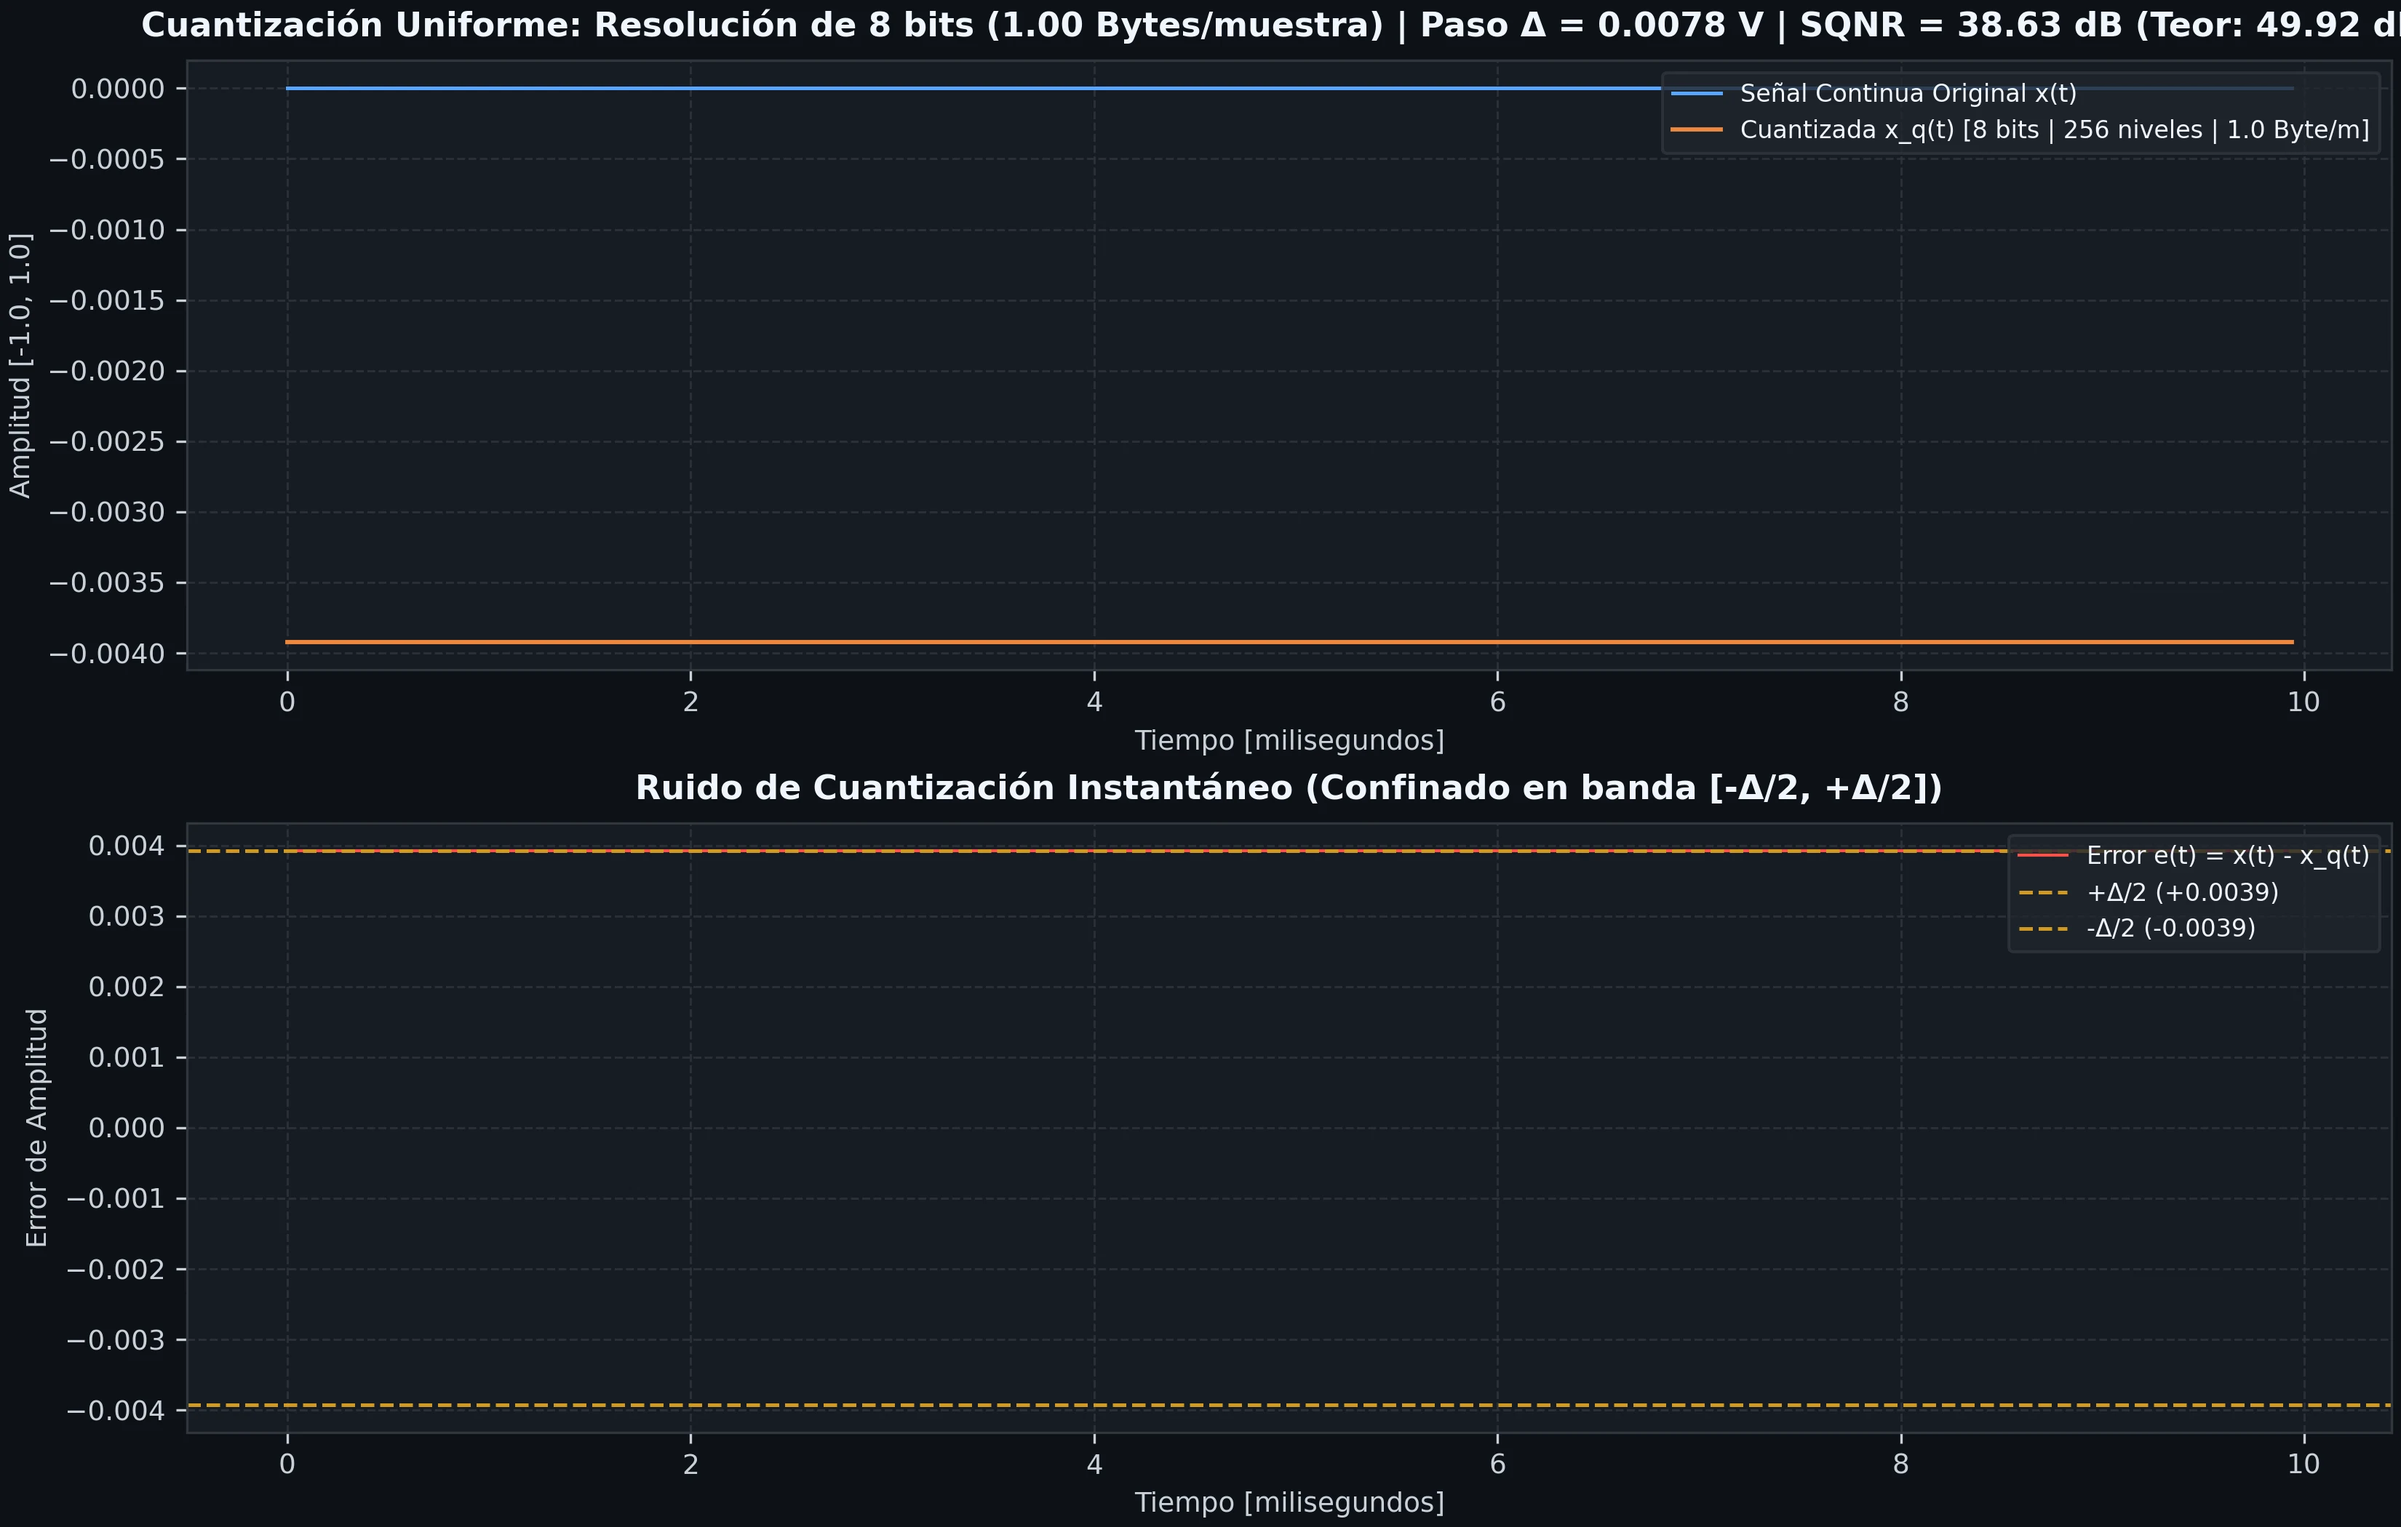
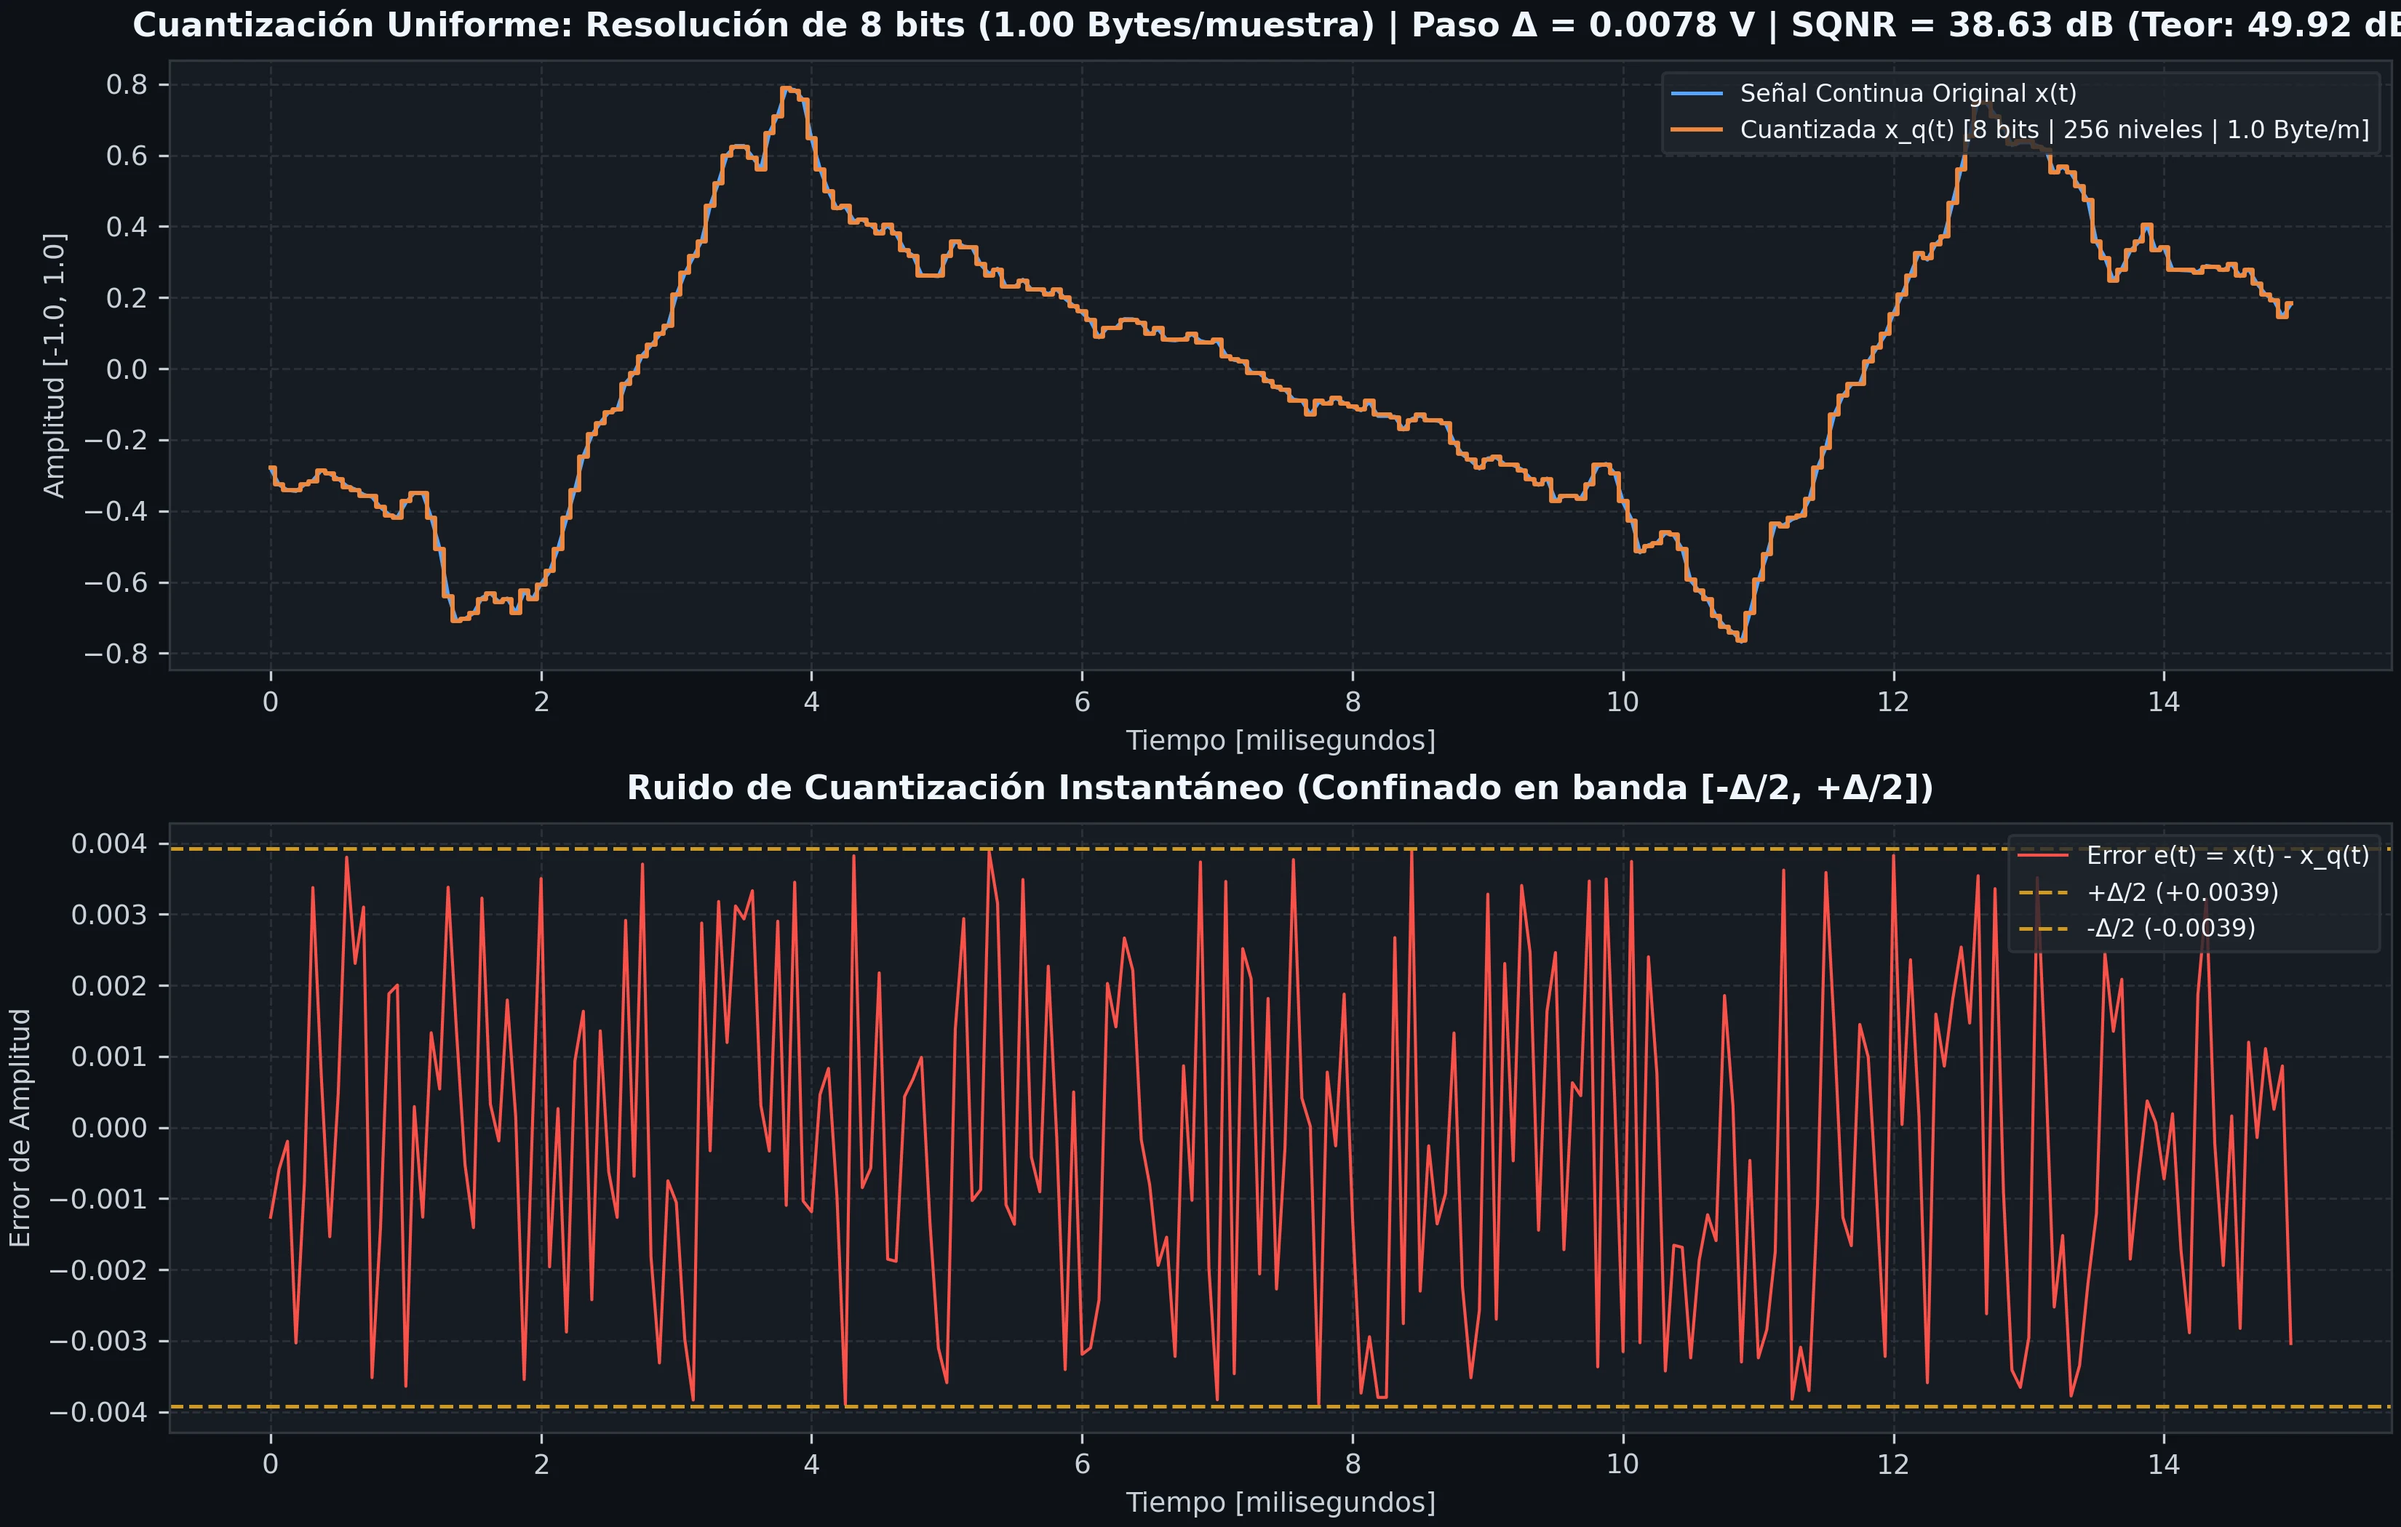
fix(dsp): resolver NameError en zoom_ms, regenerar 02_estudio_muestreo_nqs con fonema activo (-0.81V a +0.80V) y trama PCM real

diff --git a/src/core/quantization.py b/src/core/quantization.py
@@ -217,7 +217,9 @@ def plot_sampling_nqs_study(signal: AudioSignal, save_path: Optional[str] = None
 
     # Ventana de visualización microscópica (20 ms en segmento de voz activo para apreciar
     # las muestras discretas sin caer en silencios iniciales planos en 0.00 V).
-    window_samples = max(10, int(signal.sample_rate * 0.020))
+    zoom_ms = 20.0
+    zoom_s = zoom_ms / 1000.0
+    window_samples = max(10, int(signal.sample_rate * zoom_s))
     step_search = max(1, int(signal.sample_rate * 0.005))
     abs_samples = np.abs(signal.samples)
     if len(abs_samples) > window_samples:
@@ -228,7 +230,6 @@ def plot_sampling_nqs_study(signal: AudioSignal, save_path: Optional[str] = None
         best_start_idx = 0
 
     t_start = float(signal.time_vector[best_start_idx])
-    zoom_s = 0.020  # 20 ms
     t_end = t_start + zoom_s
 
     mask_orig = (signal.time_vector >= t_start) & (signal.time_vector <= t_end)
@@ -238,17 +239,21 @@ def plot_sampling_nqs_study(signal: AudioSignal, save_path: Optional[str] = None
     fig, axes = plt.subplots(3, 1, figsize=(11, 9), constrained_layout=True)
     fig.patch.set_facecolor('#0d1117')
 
-    t_orig_rel = (signal.time_vector[mask_orig] - t_start) * 1000.0
+    t_orig_rel = (signal.time_vector[mask_orig] - t_start) * 1000.0  # en ms
     x_orig_win = signal.samples[mask_orig]
+    t_nyq_rel = (t_sub_nyq[mask_nyq] - t_start) * 1000.0  # en ms
+    x_nyq_win = x_sub_nyq[mask_nyq]
+    t_alias_rel = (t_sub_alias[mask_alias] - t_start) * 1000.0  # en ms
+    x_alias_win = x_sub_alias[mask_alias]
 
     configs = [
         (axes[0], t_orig_rel, x_orig_win, '#58a6ff',
          f"1. Sobremuestreo (Señal Continua Original: fs = {fs_orig:,} Hz >> 2·f_max)",
          'Señal Continua x(t) (Sin Aliasing)'),
-        (axes[1], (t_sub_nyq[mask_nyq] - t_start) * 1000.0, x_sub_nyq[mask_nyq], '#d29922',
+        (axes[1], t_nyq_rel, x_nyq_win, '#d29922',
          f"2. Muestreo en Rango de Nyquist (fs' = {fs_nyq:,} Hz ≈ 2·f_max)",
          f"Muestras Discretas x[n] (Ts = {1000.0/fs_nyq:.2f} ms, Criterio Cumplido)"),
-        (axes[2], (t_sub_alias[mask_alias] - t_start) * 1000.0, x_sub_alias[mask_alias], '#f85149',
+        (axes[2], t_alias_rel, x_alias_win, '#f85149',
          f"3. Submuestreo Severo / Violación NQS (fs'' = {fs_alias:,} Hz << 2·f_max) -> ALIASING",
          f"Muestras Discretas (Ts = {1000.0/fs_alias:.2f} ms, Distorsión Irreversible)")
     ]
@@ -265,21 +270,21 @@ def plot_sampling_nqs_study(signal: AudioSignal, save_path: Optional[str] = None
                 color='#8b949e', linewidth=0.8, alpha=0.4, label='x(t) Original')
 
         if ax == axes[0]:
-            ax.plot(t_plot * 1000.0, x_plot, color=color, linewidth=1.5, label=label_text)
+            ax.plot(t_plot, x_plot, color=color, linewidth=1.5, label=label_text)
         else:
             # Stem plot para representar impulsos discretos
             markerline, stemlines, baseline = ax.stem(
-                t_plot * 1000.0, x_plot,
+                t_plot, x_plot,
                 linefmt='-', markerfmt='o', basefmt='-'
             )
             plt.setp(stemlines, color=color, linewidth=1.2)
             plt.setp(markerline, color=color, markersize=5)
             plt.setp(baseline, color='#30363d', linewidth=0.8)
             # Línea discontinua interpolada
-            ax.plot(t_plot * 1000.0, x_plot, color=color, linestyle=':', alpha=0.7, label='Envolvente Muestreada')
+            ax.plot(t_plot, x_plot, color=color, linestyle=':', alpha=0.7, label='Envolvente Muestreada')
 
         ax.set_title(title, color='#f0f6fc', fontsize=11, fontweight='bold', pad=8)
-        ax.set_xlabel("Tiempo [milisegundos]", color='#c9d1d9', fontsize=9)
+        ax.set_xlabel("Tiempo relativo en segmento activo [ms]", color='#c9d1d9', fontsize=9)
         ax.set_ylabel("Amplitud [-1.0, 1.0]", color='#c9d1d9', fontsize=9)
         ax.set_xlim(0, zoom_ms)
         ax.set_ylim(-1.05, 1.05)

diff --git a/generar_datos_demo.py b/generar_datos_demo.py
@@ -23,8 +23,13 @@ ROOT_DIR = Path(__file__).resolve().parent
 sys.path.insert(0, str(ROOT_DIR))
 
 from src.core.audio_io import load_wav, generate_synthetic_speech_phrase, save_wav
-from src.core.analyzer import analyze_signal_properties
-from src.core.quantization import quantize_signal, simulate_sampling_nqs
+from src.core.analyzer import analyze_signal_properties, plot_time_and_frequency
+from src.core.quantization import (
+    quantize_signal,
+    simulate_sampling_nqs,
+    plot_sampling_nqs_study,
+    plot_quantization_analysis,
+)
 from src.modulation import (
     AMModulator,
     FMModulator,
@@ -85,12 +90,30 @@ def generate_canonical_demo_data():
     bits_pcm = 8
     q_res = quantize_signal(signal, bits_per_sample=bits_pcm)
 
-    # Primeros 64 bits y bytes hex
-    bitstream_arr = np.asarray(q_res.bitstream, dtype=np.uint8)
-    first_64_bits = "".join(str(b) for b in bitstream_arr[:64])
+    # Gráficas científicas Fase 1
+    print("[Fase 1] Generando gráficas de espectro, estudio NQS y cuantización...")
+    plot_time_and_frequency(signal, save_path=str(out_dir / "01_analisis_temporal_espectral.png"), show=False)
+    plot_sampling_nqs_study(signal, save_path=str(out_dir / "02_estudio_muestreo_nqs.png"), show=False)
+    plot_quantization_analysis(signal, q_res, save_path=str(out_dir / "03_cuantizacion_8bits_ruido.png"), show=False)
+
+    # Identificar ventana de fonema activo para extraer trama representativa (evita silencios planos 0x7F)
+    window_samples = max(10, int(signal.sample_rate * 0.020))
+    step_search = max(1, int(signal.sample_rate * 0.005))
+    abs_samples = np.abs(signal.samples)
+    if len(abs_samples) > window_samples:
+        energies = [np.mean(abs_samples[i:i + window_samples])
+                    for i in range(0, len(abs_samples) - window_samples, step_search)]
+        best_start_idx = int(np.argmax(energies)) * step_search if len(energies) > 0 else 0
+    else:
+        best_start_idx = 0
+
     packed_bytes = q_res.to_bytes()
-    first_hex = " ".join(f"{b:02X}" for b in packed_bytes[:16])
+    active_bytes = packed_bytes[best_start_idx:best_start_idx + 16]
+    first_hex = " ".join(f"{b:02X}" for b in active_bytes)
+    first_64_bits = "".join(f"{b:08b}" for b in active_bytes[:8])
     step_delta = (q_res.v_max - q_res.v_min) / (2 ** bits_pcm - 1)
+
+    bitstream_arr = np.asarray(q_res.bitstream, dtype=np.uint8)
 
     fase1_data = {
         "audio": {
